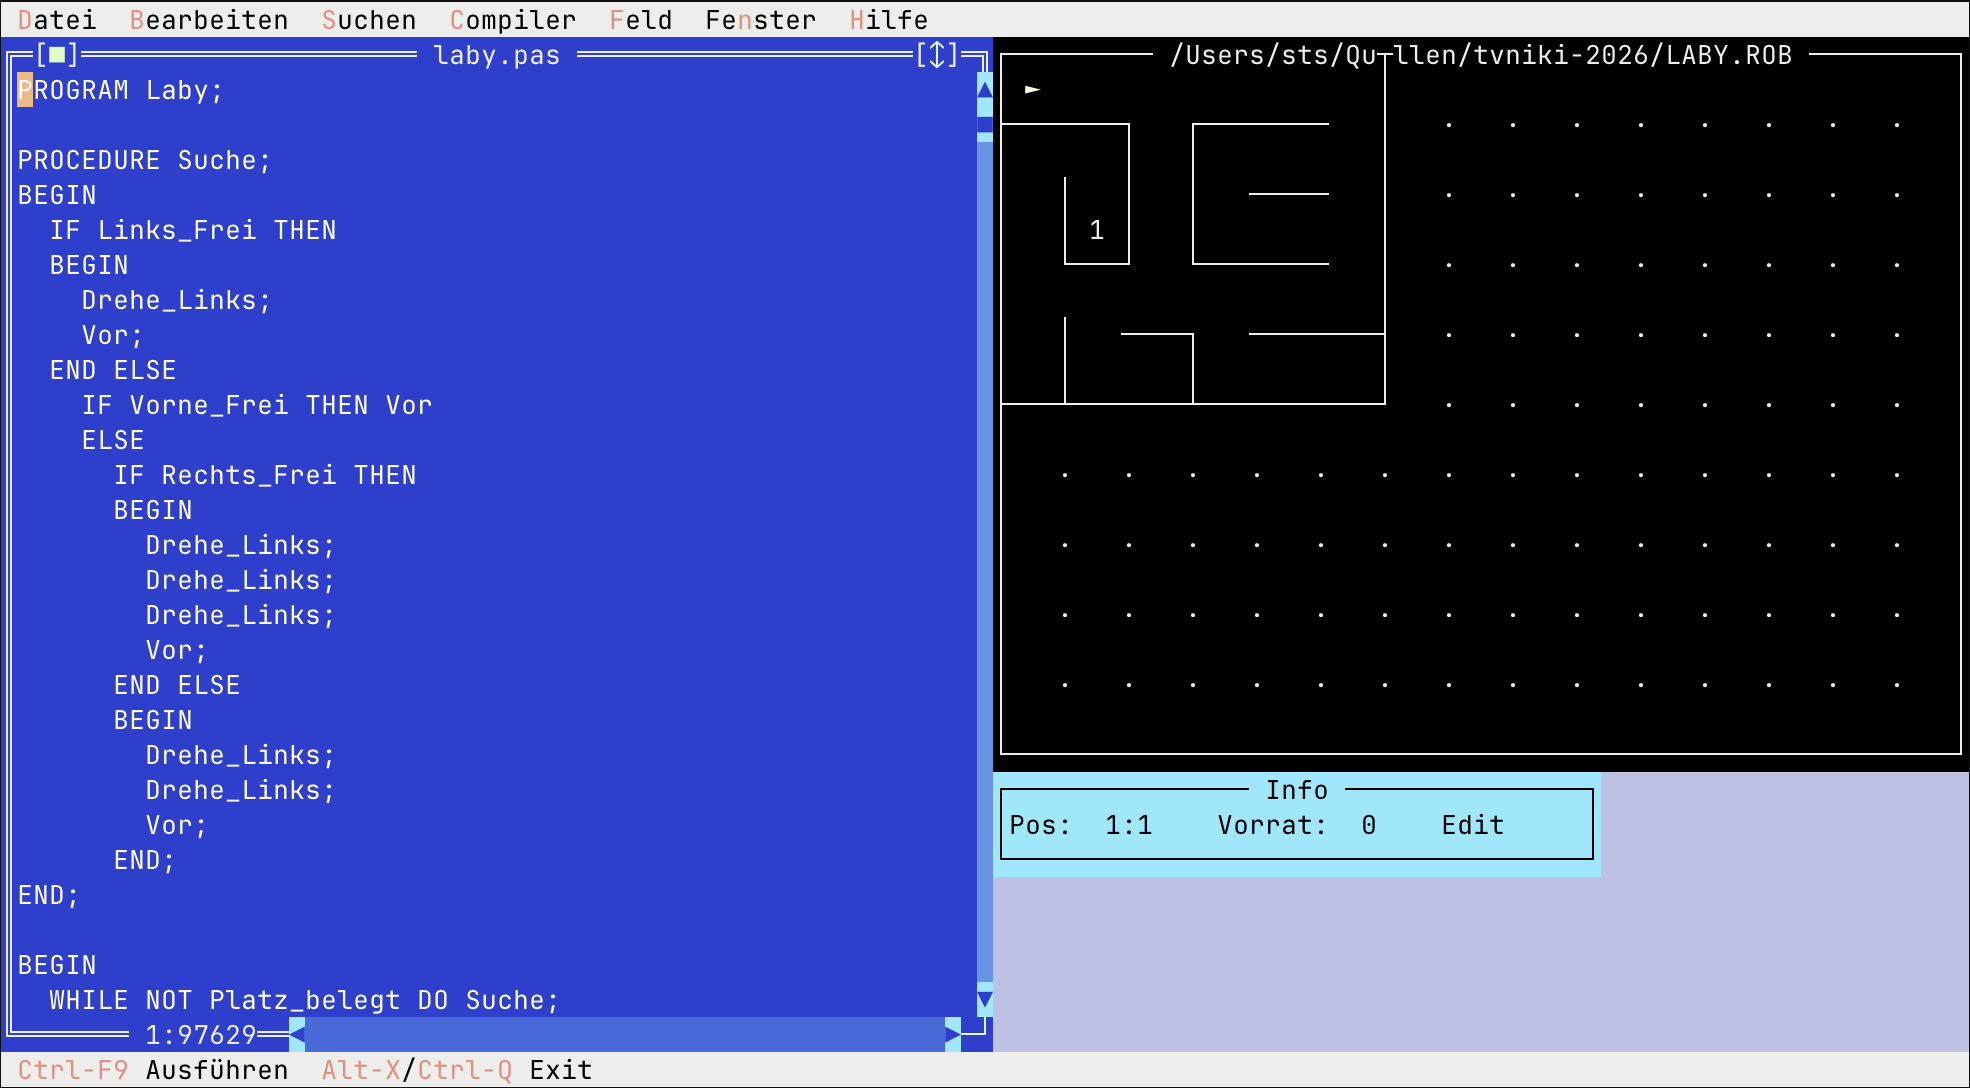
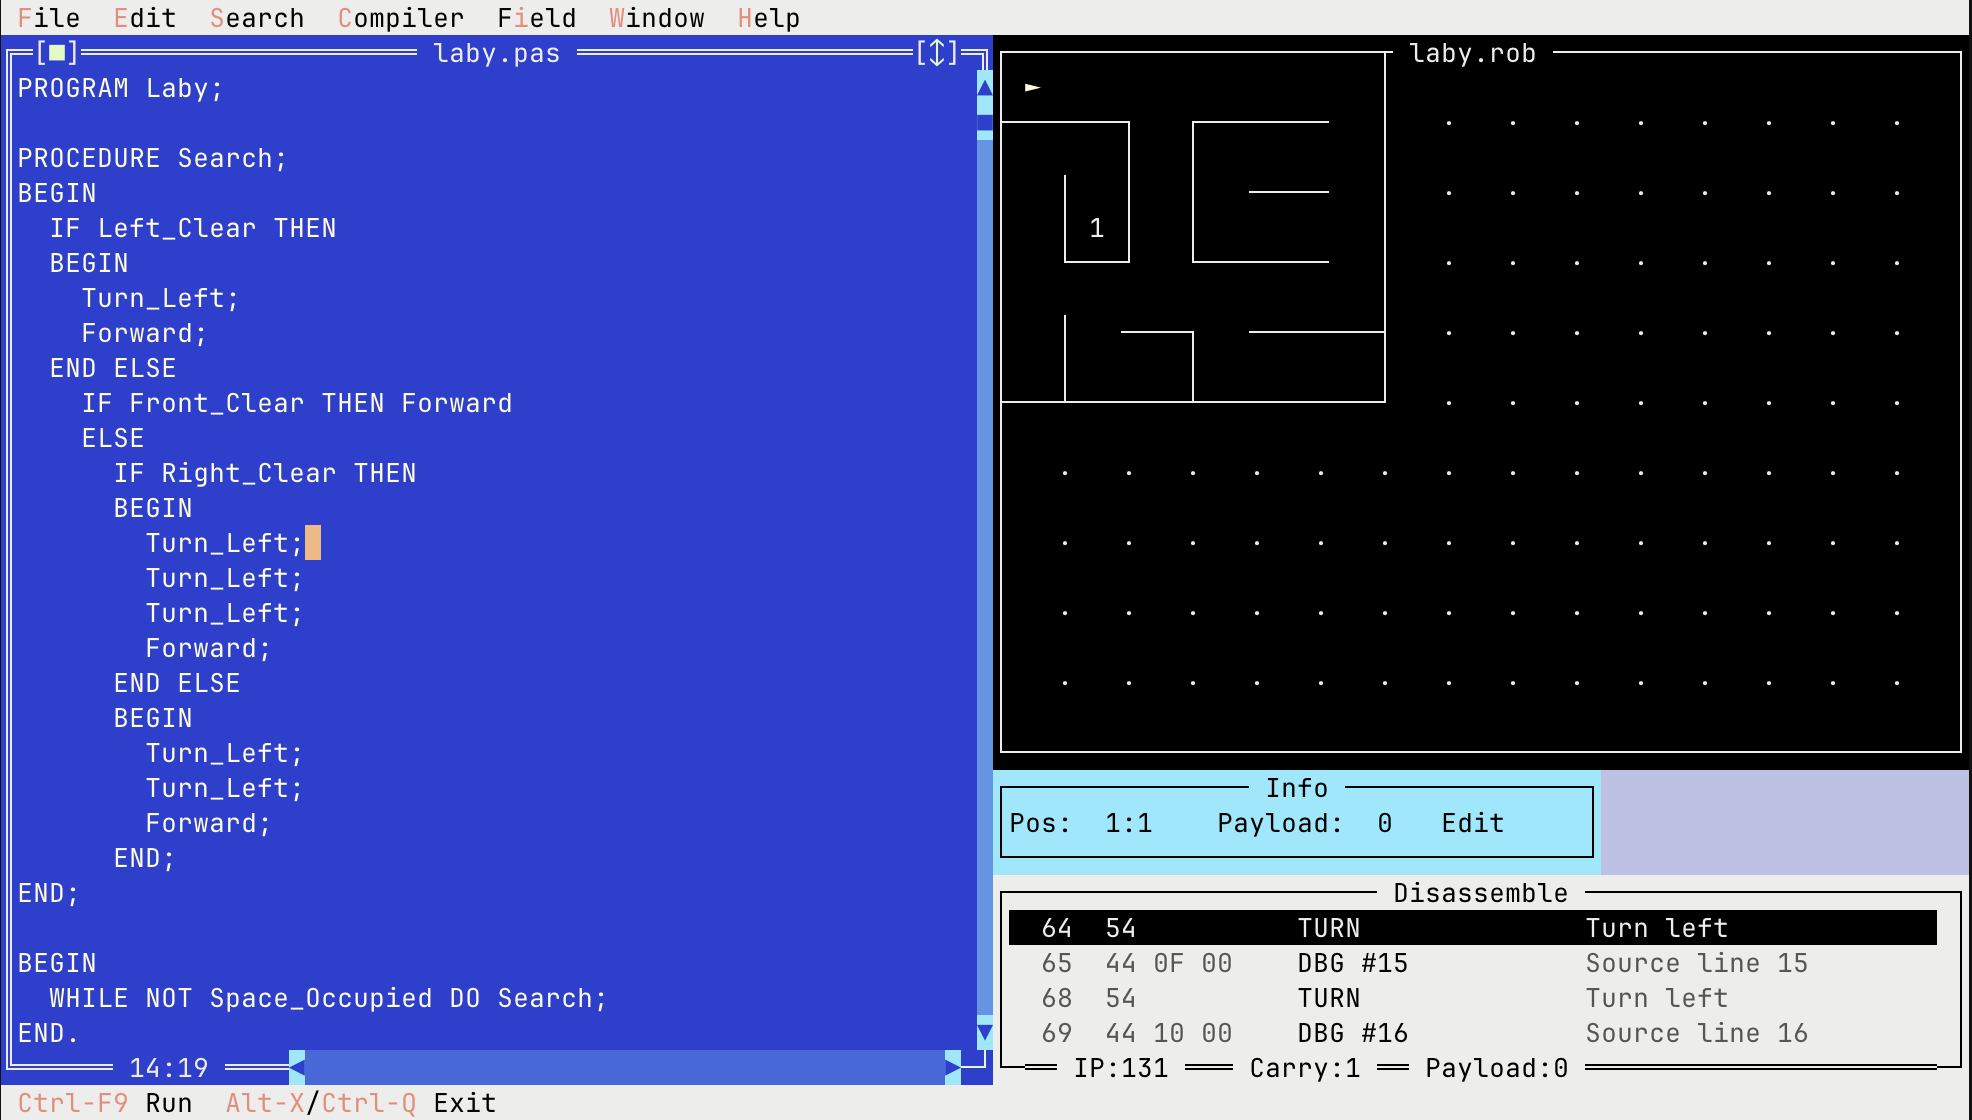
docs: update README with new screenshot and nikic docs
- New screenshot showing English commands and disassemble window
- Document both English and German robot commands
- Add nikic command-line compiler usage
- Update Linux download instructions for tar.gz
- Add localization section
- Highlight 30 years (1996-2026)

diff --git a/README.md b/README.md
@@ -2,7 +2,7 @@
 
 [![Build](https://github.com/sttts/tvniki-2026/actions/workflows/build.yml/badge.svg)](https://github.com/sttts/tvniki-2026/actions/workflows/build.yml)
 
-An educational programming environment where students control a robot named "Niki" through a Pascal-like language. Originally created in 1996 for DOS, now ported to Free Pascal with UTF-8 support.
+An educational programming environment where students control a robot named "Niki" through a Pascal-like language. Originally created in **1996** for DOS, now ported to Free Pascal with UTF-8 support in **2026** — 30 years of teaching programming!
 
 ![tvNiki Screenshot](screenshot.png)
 
@@ -18,16 +18,19 @@ tvNiki teaches programming fundamentals through a simple robot simulation. Niki 
 brew install --head sttts/tvniki-2026/tvniki
 ```
 
+This installs both `tvniki` (the GUI) and `nikic` (the command-line compiler).
+
 ### Linux (Pre-built Binaries)
 
 Download from [GitHub Releases](https://github.com/sttts/tvniki-2026/releases):
 
-- `tvniki-linux-x86_64` - Linux x86_64
-- `tvniki-linux-arm64` - Linux ARM64
+- `tvniki-linux-x86_64.tar.gz` - Linux x86_64
+- `tvniki-linux-arm64.tar.gz` - Linux ARM64
 
 ```bash
-chmod +x tvniki-linux-*
-./tvniki-linux-x86_64
+tar xzf tvniki-linux-x86_64.tar.gz
+cd tvniki-linux-x86_64
+./tvniki
 ```
 
 ### Building from Source
@@ -50,57 +53,68 @@ make
 ```bash
 ./tvniki              # Start with empty editor
 ./tvniki program.pas  # Load a program file
+./tvniki field.rob    # Load a field file
+```
+
+### Command-Line Compiler
+
+```bash
+./nikic program.pas           # Compile to program.nik
+./nikic -o output.nik src.pas # Specify output file
+./nikic -d program.pas        # Include debug info
 ```
 
 ## Robot Commands
 
-| Command | Description |
-|---------|-------------|
-| `Vor` | Move forward one cell |
-| `Drehe_Links` | Turn left 90 degrees |
-| `Nimm_Auf` | Pick up object from current cell |
-| `Gib_Ab` | Place object on current cell |
+Both English and German commands are supported:
+
+| English | German | Description |
+|---------|--------|-------------|
+| `Forward` | `Vor` | Move forward one cell |
+| `Turn_Left` | `Drehe_Links` | Turn left 90 degrees |
+| `Pick_Up` | `Nimm_Auf` | Pick up object from current cell |
+| `Put_Down` | `Gib_Ab` | Place object on current cell |
 
 ## Sensor Functions
 
-| Function | Returns true when... |
-|----------|---------------------|
-| `Vorne_Frei` | Cell ahead is free |
-| `Links_Frei` | Cell to the left is free |
-| `Rechts_Frei` | Cell to the right is free |
-| `Platz_Belegt` | Current cell has an object |
-| `Hat_Vorrat` | Robot is carrying objects |
+| English | German | Returns true when... |
+|---------|--------|---------------------|
+| `Front_Clear` | `Vorne_Frei` | Cell ahead is free |
+| `Left_Clear` | `Links_Frei` | Cell to the left is free |
+| `Right_Clear` | `Rechts_Frei` | Cell to the right is free |
+| `Space_Occupied` | `Platz_Belegt` | Current cell has an object |
+| `Has_Supply` | `Hat_Vorrat` | Robot is carrying objects |
 
 ## Example Program
 
 ```pascal
 PROGRAM Laby;
 
-PROCEDURE Suche;
+PROCEDURE Search;
 BEGIN
-  IF Links_Frei THEN
+  IF Left_Clear THEN
   BEGIN
-    Drehe_Links;
-    Vor;
+    Turn_Left;
+    Forward;
   END ELSE
-    IF Vorne_Frei THEN Vor
+    IF Front_Clear THEN Forward
     ELSE
-      IF Rechts_Frei THEN
+      IF Right_Clear THEN
       BEGIN
-        Drehe_Links;
-        Drehe_Links;
-        Drehe_Links;
-        Vor;
+        Turn_Left;
+        Turn_Left;
+        Turn_Left;
+        Forward;
       END ELSE
       BEGIN
-        Drehe_Links;
-        Drehe_Links;
-        Vor;
+        Turn_Left;
+        Turn_Left;
+        Forward;
       END;
 END;
 
 BEGIN
-  WHILE NOT Platz_Belegt DO Suche;
+  WHILE NOT Space_Occupied DO Search;
 END.
 ```
 
@@ -135,3 +149,12 @@ Features:
 - Current execution line highlighted in blue with `-->` marker
 - Shows instruction pointer (IP) and carry flag in the status bar
 - Follows execution during run and single-step debugging
+
+## Localization
+
+tvNiki automatically loads translations based on the `LANG` environment variable. Supported languages: German (default), English, Spanish, French, Italian, Dutch, Portuguese, Norwegian, Swedish, Icelandic.
+
+```bash
+LANG=en_US ./tvniki   # Run in English
+LANG=es_ES ./tvniki   # Run in Spanish
+```
